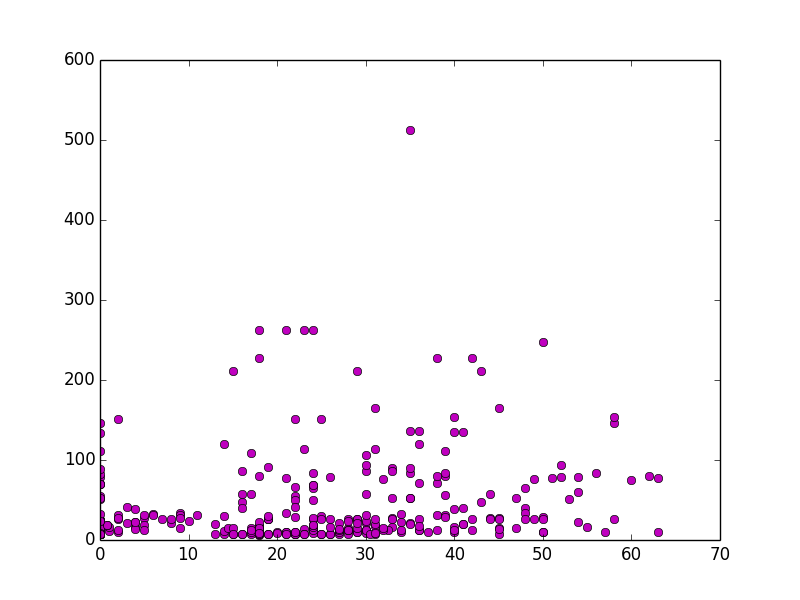
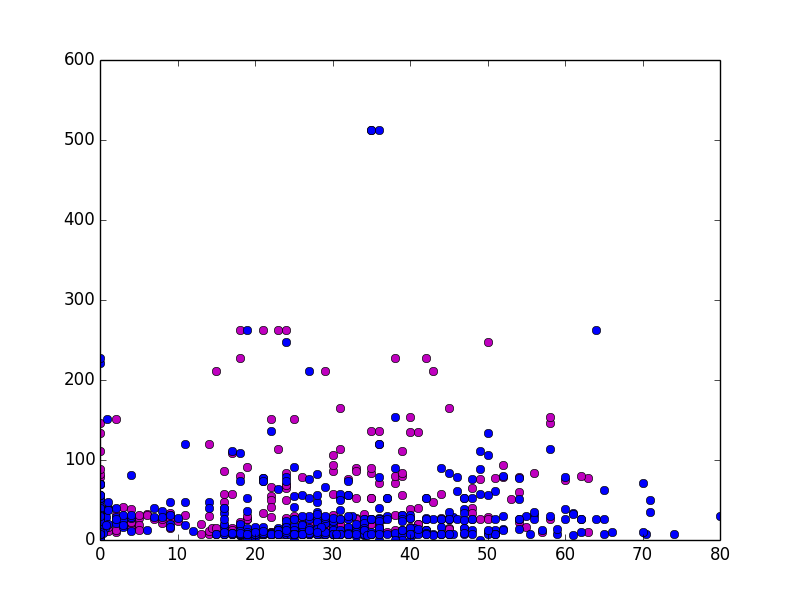
trying again

diff --git a/titanic.py b/titanic.py
@@ -64,7 +64,6 @@ men_onboard = data[men_only_stats,1].astype(np.float)
 proportion_women_survived = np.sum(women_onboard) / np.size(women_onboard)
 proportion_men_survived = np.sum(men_onboard) / np.size(men_onboard)
 
-print data[women_only_stats,9]
 
 wom_sur_age = data[women_only_stats,5]
 wom_sur_age[wom_sur_age==''] = '0'
@@ -73,11 +72,17 @@ wom_sur_fare = data[women_only_stats,9].astype(np.float)
 #wom_die_age = data[women_only_stats,1].astype(np.float)
 #wom_die_fare
 men_sur_age = data[men_only_stats,5] #.astype(np.float)
-men_sur_fare = data[men_only_stats,9] #.astype(np.float)
+men_sur_age[men_sur_age==''] = '0'
+men_sur_age = men_sur_age.astype(np.float)
+men_sur_fare = data[men_only_stats,9].astype(np.float)
 #men_die_age
 #men_die_fare
 
+print wom_sur_age
+print wom_sur_fare
+
 plt.plot (wom_sur_age, wom_sur_fare, 'mo')
+plt.plot (men_sur_age, men_sur_fare, 'bo')
 plt.savefig('myfigure')
 
 
